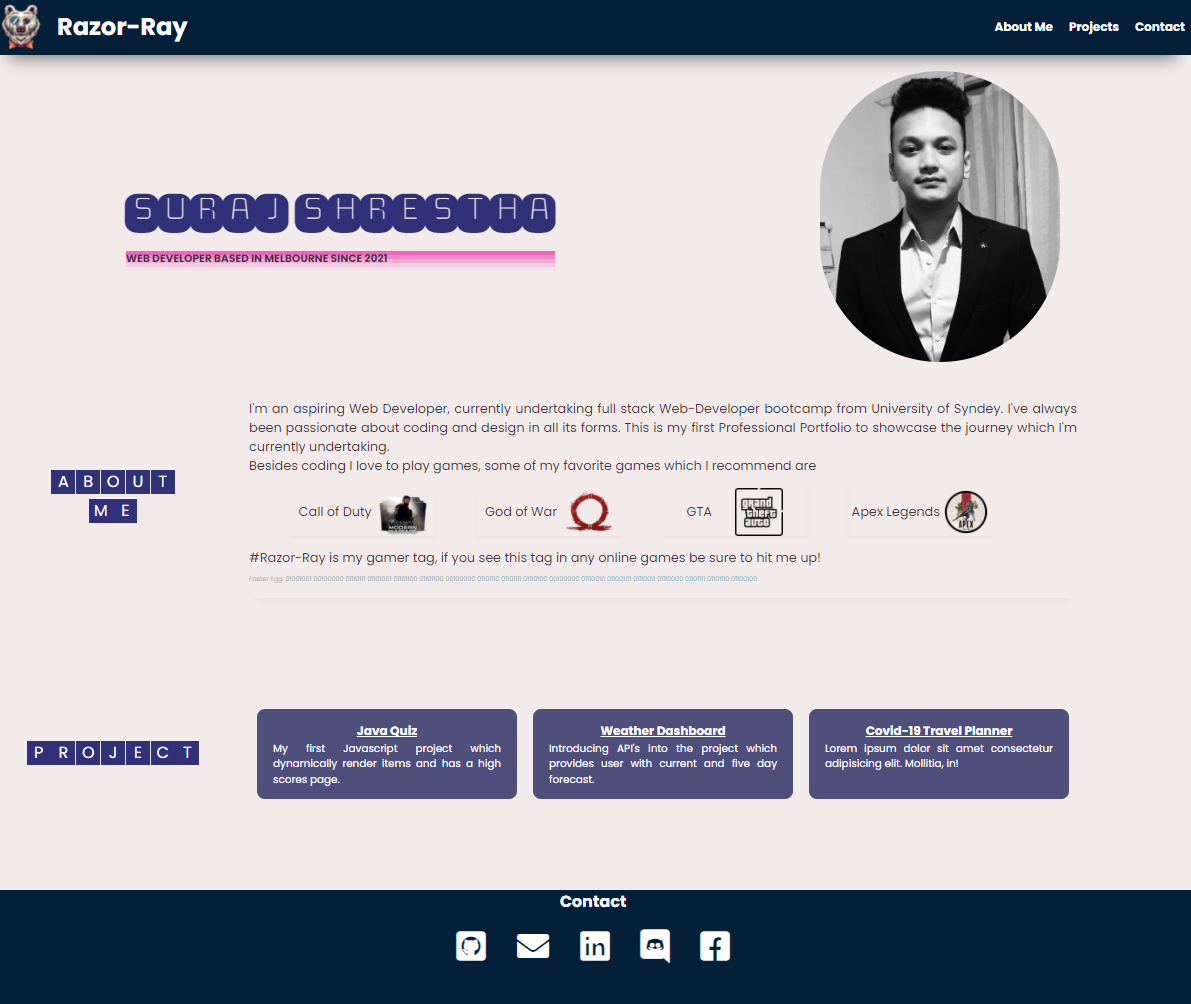
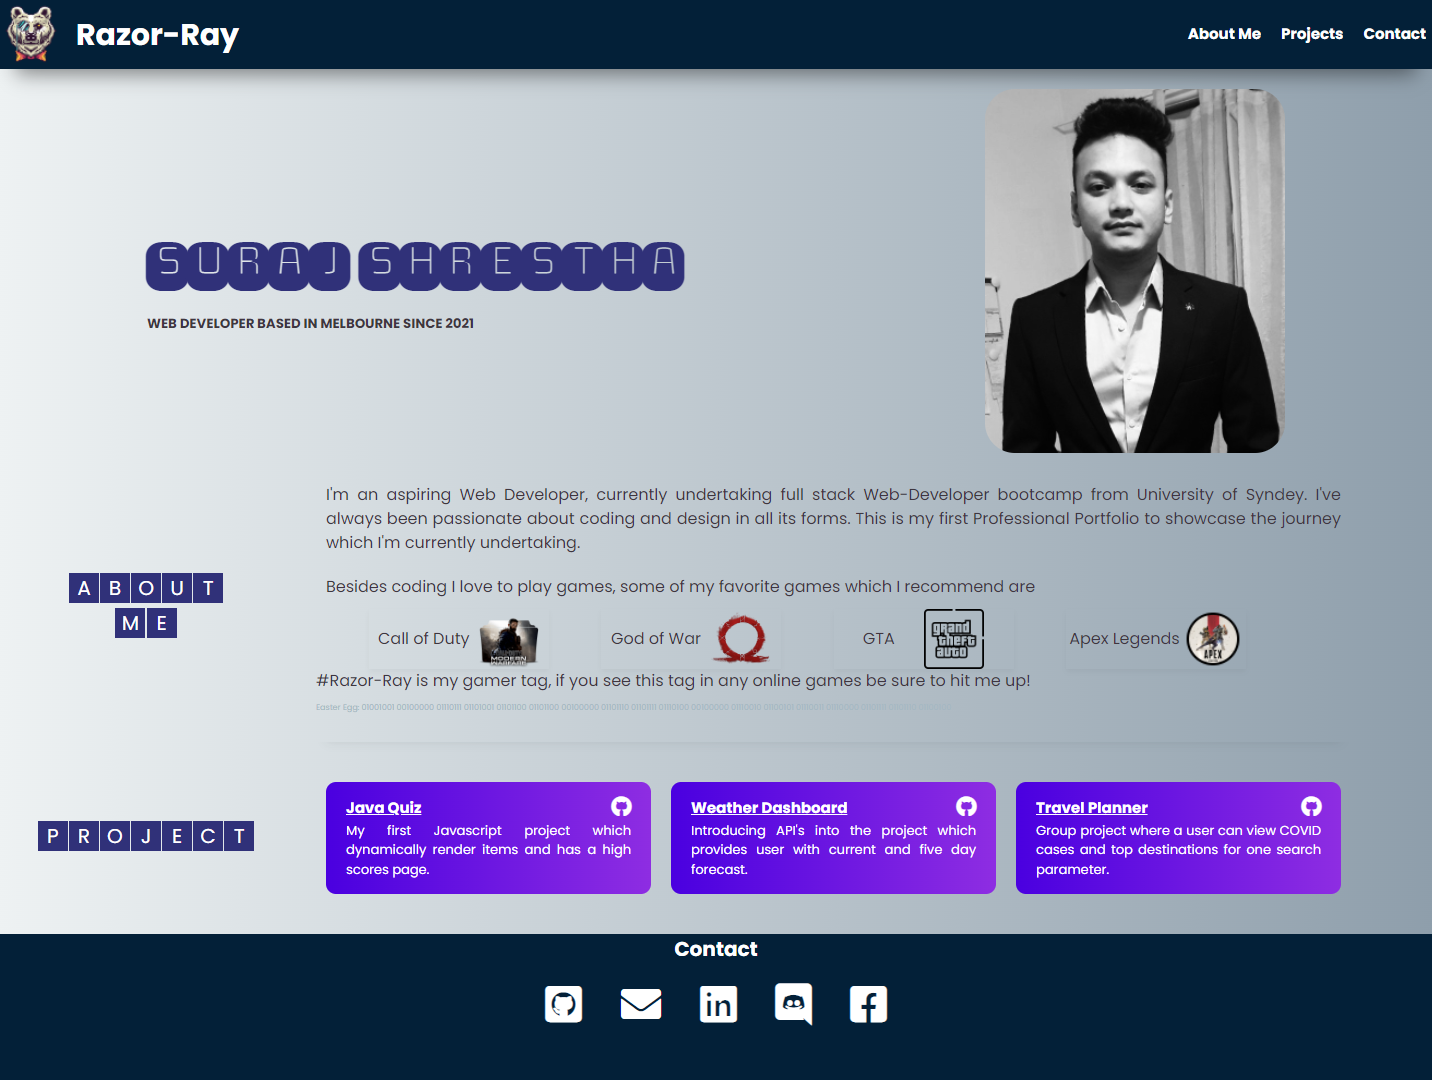
added hover effect and updated readme

diff --git a/assets/style.css b/assets/style.css
@@ -15,6 +15,7 @@ body{
     background: -webkit-linear-gradient(to right, #eef2f3, #8e9eab);  /* Chrome 10-25, Safari 5.1-6 */
     background: linear-gradient(to right, #eef2f3, #8e9eab); /* W3C, IE 10+/ Edge, Firefox 16+, Chrome 26+, Opera 12+, Safari 7+ */
     
+    
 }
 
 .container{
@@ -183,6 +184,14 @@ span img{
     background: linear-gradient(to right, #4A00E0, #8E2DE2); 
     padding: 15px 20px;
     flex-wrap:wrap;
+}
+
+.card-item:hover{
+
+    background: #0F2027;  /* fallback for old browsers */
+    background: -webkit-linear-gradient(to right, #2C5364, #203A43, #0F2027);  /* Chrome 10-25, Safari 5.1-6 */
+    background: linear-gradient(to right, #2C5364, #203A43, #0F2027); /* W3C, IE 10+/ Edge, Firefox 16+, Chrome 26+, Opera 12+, Safari 7+ */
+
 }
 
 .card-item img{
